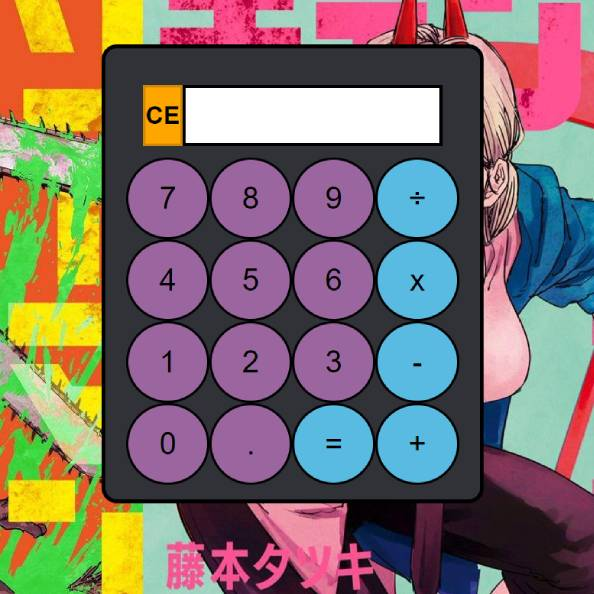
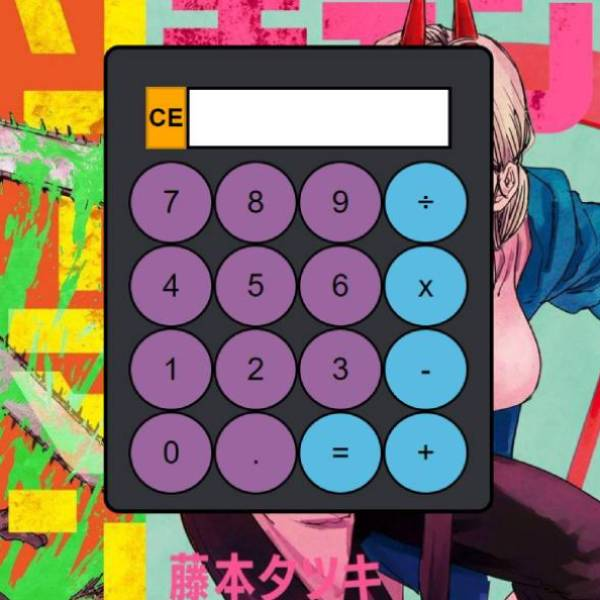
finished maybe ?

diff --git a/src/Components/Projects.js b/src/Components/Projects.js
@@ -7,42 +7,45 @@ import twitter from "./imgs/twitterApp.jpg";
 
 const Projects = () => {
   return (
-    <div className="relative container mx-auto p-5 space-y-10 mb-10">
-      <div className="flex flex-col items-center space-y-5">
-        <h1 className="text-md">What I've been up to</h1>
-        <p className="font-light">
+    <div className="relative container mx-auto p-5  mb-10">
+      <div className="flex flex-col items-center space-y-5  ">
+        <h1 className="text-md md:text-xl">What I've been up to</h1>
+        <p className="font-light text-[1.1rem]  md:px-10 lg:px-20">
           I want to learn as much as possible, and love staying busy so what
           better way to learn than testing ideas out in new applications. Take a
           look at my most recent applications I have dedicated my free time to.
         </p>
       </div>
       <div className="">
-        <div className="space-y-10 mb-10">
-          <div className="space-y-2 flex flex-col items-center justify-center">
-            <img className="" src={swapi} alt="swapiApp" />
-            <div className="space-y-3 flex flex-col items-center ">
-              <h3 className="text-baselg">Swapi Api</h3>
-              <p className="font-light pl-2 md:pl-0">
-                An application that utilizes the Swapi starwars Api, using React{" "}
-                {"&"} Tailwind
+        <div className="relative mx-auto container   mb-5 p-5 md:space-x-20 md:flex ">
+          <div className="flex flex-col items-center justify-center mb-10 md:mb-0">
+            <div>
+              <img className="" src={swapi} alt="React Expense Tracker" />
+            </div>
+            <div className="space-y-3 flex flex-col items-center">
+              <h3 className="text-baselg pt-3">StarWars Api</h3>
+              <p className=" font-light ml-4 md:ml-0">
+                A react application utilizing the swapi api to search starwars
+                characters
               </p>
 
               <a
                 href="https://brandoncarp-swapi-app.herokuapp.com/"
-                className=" bg-secondaryPurple px-2 py-1 rounded-full text-black font-bold hover:bg-secondaryPurpleLight"
+                className="bg-secondaryPurple  px-2 py-1  rounded-full text-black font-bold hover:bg-secondaryPurpleLight"
               >
                 View Project
               </a>
             </div>
           </div>
 
-          <div className="space-y-2 flex flex-col items-center justify-center">
-            <img className="" src={tracker} alt="React Expense Tracker" />
+          <div className="flex flex-col items-center justify-center">
+            <div>
+              <img className="" src={tracker} alt="React Expense Tracker" />
+            </div>
             <div className="space-y-3 flex flex-col items-center">
-              <h3 className="text-baselg">Expense Tracker</h3>
-              <p className=" font-light">
-                A application that can be used to keep track of your expenses,
-                using React {"&"} Bootstrap
+              <h3 className="text-baselg pt-3">Expense Tracker</h3>
+              <p className=" font-light ml-4 md:ml-0">
+                A react application to help you manage your expenses
               </p>
 
               <a
@@ -55,14 +58,13 @@ const Projects = () => {
           </div>
         </div>
 
-        <div className="space-y-10">
+        <div className="relative mx-auto container space-y-10 mb-10 p-5 md:space-x-20 md:flex ">
           <div className="space-y-5 flex flex-col items-center justify-center">
-            <img className="" src={calc} alt="calculator app" />
+            <img className="md:mt-11" src={calc} alt="calculator app" />
             <div className="space-y-3 flex flex-col items-center">
               <h3 className="text-baselg">Calculator App</h3>
-              <p className="font-light pl-2 md:pl-0">
-                This is a calculator application made with Vanilla Javascript{" "}
-                {"&"} Css
+              <p className="font-light ml-4 md:ml-0">
+                This is a calculator application made with Vanilla Javascript
               </p>
               <a
                 href="https://brandoncarp.github.io/calc.html"
@@ -78,9 +80,8 @@ const Projects = () => {
 
             <div className="space-y-3 flex flex-col items-center">
               <h3 className="text-baselg">Snake Game</h3>
-              <p className="font-light">
-                The classic snake game we all know and love, made with Vanilla
-                Javascript {"&"} Css
+              <p className="font-light ml-4 md:ml-0">
+                The classic snake game, made with Vanilla Javascript
               </p>
               <a
                 href="https://brandoncarp.github.io/snake.html"
@@ -96,8 +97,8 @@ const Projects = () => {
       <div className="space-y-5 flex flex-col items-center justify-center">
         <img className="" src={twitter} alt="twitter showcase app" />
         <div className="space-y-3 flex flex-col items-center">
-          <h1 className="text-md">Twitter Showcase</h1>
-          <p className="font-light">
+          <h1 className="text-md md:text-l">Twitter Showcase</h1>
+          <p className="font-light md:text-[1.2rem]">
             What I am working on now, a <span className="">Twitter</span>{" "}
             showcase full stack application that lets you see all of your
             favorite users tweets, and even random tweets of a specific user.

diff --git a/src/Components/Header.js b/src/Components/Header.js
@@ -7,42 +7,49 @@ import myImage from "./imgs/me.jpg";
 const Header = () => {
   return (
     <header className="relative mx-auto container  ">
-      <div className="flex flex-col items-center pt-10">
-        <div className="mb-5">
-          <h1 className="font-bold text-l  ">BRAN</h1>
-          <h1 className="font-bold text-l ml-2 md:ml-0">DON.</h1>
+      <div className="flex flex-col items-center md:items-start pt-10">
+        <div className="mb-5 pl-5">
+          <h1 className="font-bold text-l md:text-base  ">BRAN</h1>
+          <h1 className="font-bold text-l ml-2 md:text-base md:ml-0">DON.</h1>
         </div>
-        <div className="flex space-x-3 mb-20">
+        <div className="flex space-x-3 mb-20 pl-5 ">
           <a className="" href="https://github.com/BrandonCarp">
             <FaGithub
-              size="1.8rem"
-              className="   hover:text-secondaryPurple hover:-translate-y-1 hover:scale-110 duration-300"
+              size="1.5rem"
+              className="   hover:text-secondaryPurple hover:-translate-y-1 hover:scale-110 duration-300 md:text-base"
             />
           </a>
           <a href="https://www.linkedin.com/in/brandon-carpenter-559b15203/">
             <FaLinkedin
-              size="1.8rem"
-              className=" hover:text-linkedInColor hover:-translate-y-1 hover:scale-110 duration-300"
+              size="1.5rem"
+              className=" hover:text-linkedInColor hover:-translate-y-1 hover:scale-110 duration-300 md:text-base"
             />
           </a>
           <a href="https://www.instagram.com/bcarpol/">
             <FaInstagram
-              size="1.8rem"
+              size="1.5rem"
               className=" hover:text-secondaryPink hover:-translate-y-1 hover:scale-110 duration-300"
             />
           </a>
         </div>
-        <div className="flex flex-col items-center mb-10">
-          <h1 className="text-baselg">Hi there, I'm Brandon.</h1>
-          <h1 className="text-l">
+        <div className="flex flex-col items-center md:items-start pl-5 mb-10">
+          <h1 className="text-baselg md:text-l lg:text-xl">
+            Hi there, I'm Brandon.
+          </h1>
+          <h1 className="text-l md:text-xl lg:text-xxl">
             Front End
             <span className="text-secondaryPurple"> Developer</span>,
           </h1>
-          <h1 className="text-baselg">Linguist, and Dog Dad.</h1>
+          <h1 className="text-baselg md:text-l lg:text-xl">
+            Linguist, and Dog Dad.
+          </h1>
         </div>
 
-        <div className=" flex flex-col-reverse mb-20">
-          <div className="flex flex-col space-y-5 p-5 font-light">
+        <div className=" flex flex-col-reverse md:flex-row mb-20">
+          <div
+            className="flex flex-col space-y-5 p-5 font-light md:justify-center  md:text-[1.1rem] md:w-[80%] lg:text-baselg xl:text-md 
+          "
+          >
             <p>
               I'm a 29-year-old Self-Taught Developer, coming out of the
               Philadelphia Metropolitan Area.

diff --git a/src/Components/Skills.js b/src/Components/Skills.js
@@ -5,23 +5,23 @@ const Skills = () => {
     <div className="relative container mx-auto mb-20">
       <div className=" flex flex-col items-center p-5 space-y-10">
         <div className="">
-          <h1 className="text-l">My Skills</h1>
+          <h1 className="text-l md:text-xl">My Skills</h1>
         </div>
-        <div className="">
-          <p className="font-light">
+        <div className=" flex justify-center items-center md:w-[80%]">
+          <p className="font-light text-[1.2rem]">
             At the start of my coding journey I've gained an [ array ] of
             practical skills. All of which I cultivated from real world use.
           </p>
         </div>
-        <div className="marker:text-secondaryPurple   grid grid-rows-4 md:grid-rows-2 grid-flow-col gap-5 ">
-          <li>Javascript ES6</li>
-          <li>Node.js</li>
-          <li>Express.js</li>
-          <li>Bootstrap</li>
-          <li>HTML {"&"} CSS</li>
-          <li>React</li>
-          <li>Tailwind</li>
-          <li>Git</li>
+        <div className="marker:text-secondaryPurple   grid grid-rows-4 md:grid-rows-2 grid-flow-col gap-5  ">
+          <li className="md:text-[1.2rem]">Javascript ES6</li>
+          <li className="md:text-[1.2rem]">Node.js</li>
+          <li className="md:text-[1.2rem]">Express.js</li>
+          <li className="md:text-[1.2rem]">Bootstrap</li>
+          <li className="md:text-[1.2rem]">HTML {"&"} CSS</li>
+          <li className="md:text-[1.2rem]">React</li>
+          <li className="md:text-[1.2rem]">Tailwind</li>
+          <li className="md:text-[1.2rem]">Git</li>
         </div>
       </div>
     </div>

diff --git a/src/Components/Footer.js b/src/Components/Footer.js
@@ -5,8 +5,8 @@ const Footer = () => {
     <div className="relative container mx-auto p-5">
       <div className="mb-20 flex flex-col">
         <div className="space-y-3 mb-5 flex flex-col items-center">
-          <h1 className="text-l">Let's Talk</h1>
-          <p className="font-light pl-2 md:pl-0 ">
+          <h1 className="text-l md:text-xl">Let's Talk</h1>
+          <p className="font-light pl-2 md:pl-0 md:text-[1.2rem]">
             Need a developer, have questions, or just wanna say hi. I'm looking
             forward to your email.
           </p>
